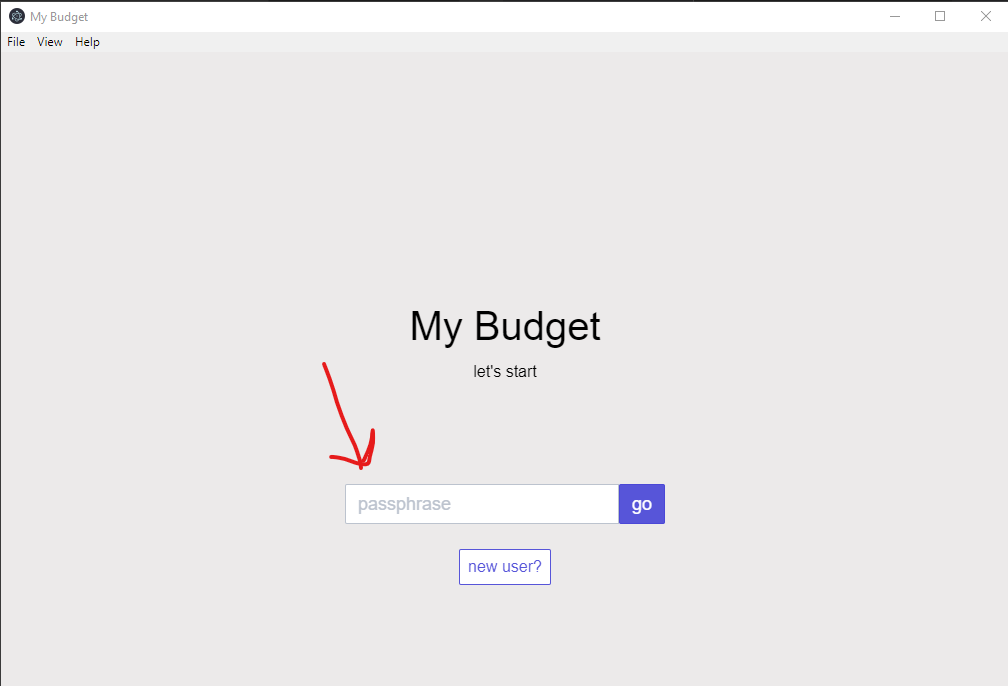
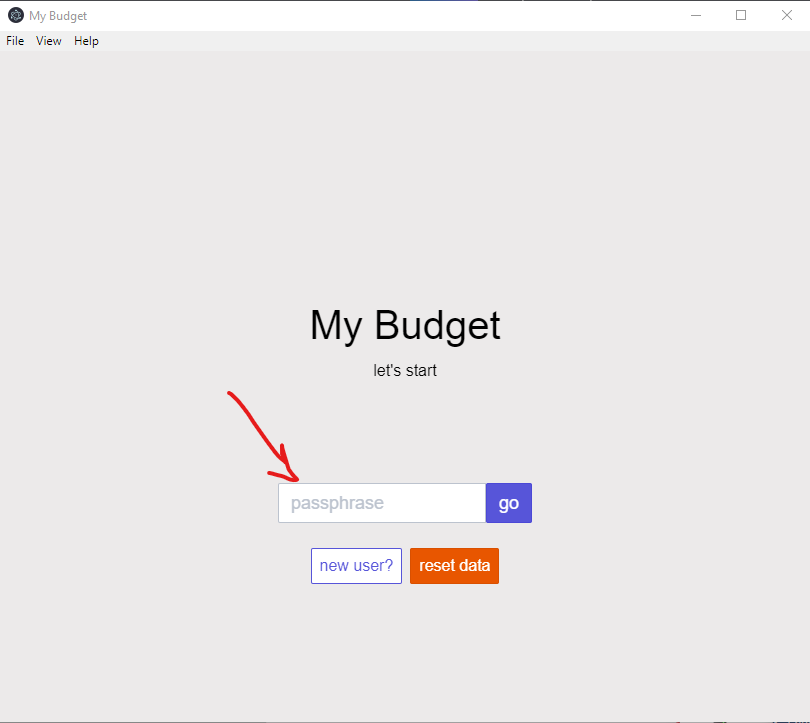
moving closer towards entry page fixes; import/export; additional wiki images

diff --git a/app/components/Entry/Entry.js b/app/components/Entry/Entry.js
@@ -10,6 +10,7 @@ import * as TransactionCollectionActions from "../../actions/transactionCollecti
 import * as PassphraseActions from "../../actions/passphrase";
 import * as ModifyActions from "../../actions/modify";
 import * as IncomeActions from "../../actions/income";
+import * as SaveActions from "../../actions/save";
 import * as BankSyncActions from "../../actions/bankSync";
 const fs = require("fs");
 import filehelper from "../../utils/filehelper";
@@ -28,6 +29,7 @@ class Entry extends Component<Props>{
 
         this.changePassphrase = this.changePassphrase.bind(this);
         this.go = this.go.bind(this);
+        this.resetData = this.resetData.bind(this);
         this.fixBug = this.fixBug.bind(this);
     }
 
@@ -35,6 +37,26 @@ class Entry extends Component<Props>{
         this.setState({
             passphrase: event.target.value
         });        
+    }
+
+    resetData(event){
+        dialog.showMessageBox({
+            title: "reset data",
+            type: "warning",
+            buttons: ["Yes", "No"],
+            message: "are you sure you want to reset all data?"
+        }, (i) => {
+
+            // Yes
+            if (i === 0){
+                this.props.deleteAll(true);
+                this.setState({
+                    passphrase: ""
+                });
+
+                alert("reset all data");                
+            }
+        });
     }
 
     go(event){
@@ -47,7 +69,7 @@ class Entry extends Component<Props>{
         var localpath = filehelper.localpath();
         try
         {
-            this.props.setPassphrase(this.state.passphrase);
+            var hash = this.props.setPassphrase(this.state.passphrase);
 
             // Create file if not exist
             if (!filehelper.exists()){
@@ -62,8 +84,8 @@ class Entry extends Component<Props>{
             fileContents = filehelper.get();
 
             if (fileContents !== ""){
-                if (crypto.cryptoAvailable() && this.props.passphrase !== ""){
-                    var decrypted = crypto.decrypt(fileContents, this.props.passphrase);
+                if (crypto.cryptoAvailable() && hash !== ""){
+                    var decrypted = crypto.decrypt(fileContents, hash);
     
                     success = true;
                     fileContents = JSON.parse(decrypted);
@@ -142,7 +164,7 @@ class Entry extends Component<Props>{
                 title: "error loading data",
                 type: "warning",
                 buttons: ["Ok"],
-                message: `wrong passphrase, we could not load your data. please delete this your data file found here '${localpath}' and restart this app.`
+                message: `wrong passphrase, if you cannot remember your passphrase, reset your data by clicking the button below. you may set a new passphrase after resetting your data.`
             }, (i) => {
                     
             });             
@@ -182,7 +204,7 @@ class Entry extends Component<Props>{
                         </div>
                         <div className={`columns ${styles.smaller}`}>
                             <div className="column col-12">
-                                <div className="popover popover-bottom">
+                                <div className="popover popover-top">
                                     <button className="btn">new user?</button>
                                     <div className="popover-container">
                                         <div className="card">
@@ -194,7 +216,8 @@ class Entry extends Component<Props>{
                                             </div>
                                         </div>
                                     </div>
-                                </div>                                
+                                </div> 
+                                <button onClick={this.resetData} className={`btn btn-error ${styles["ml"]}`}>reset data</button>                               
                             </div>
                         </div>
                         <form style={{display: "none"}} onSubmit={() => this.fixBug()}>
@@ -221,6 +244,7 @@ function mapDispatchToProps(dispatch) {
         ...PassphraseActions,
         ...ModifyActions,
         ...IncomeActions,
+        ...SaveActions,
         ...BankSyncActions,
         ...TransactionCollectionActions
     }, dispatch);

diff --git a/app/components/Save/Save.js b/app/components/Save/Save.js
@@ -14,6 +14,9 @@ import * as ImportTransactionsOptionsActions from "../../actions/importTransacti
 import styles from "./Save.css";
 import { bankSyncFetch } from "../../utils/banksync";
 import ImportBank from "../ImportBank/ImportBank";
+const fs = require("fs");
+import filehelper from "../../utils/filehelper";
+import * as crypto from "../../crypto/code";
 
 class Save extends Component<Props>{
     props: Props;
@@ -62,6 +65,7 @@ class Save extends Component<Props>{
 
         this.multi = this.multi.bind(this);
         this.sync = this.sync.bind(this);
+        this.export = this.export.bind(this);
         this.deleteAll = this.deleteAll.bind(this);
         this.toggleBankSyncAdd = this.toggleBankSyncAdd.bind(this);
         this.moveToStep = this.moveToStep.bind(this);
@@ -263,7 +267,36 @@ class Save extends Component<Props>{
     }
 
     export(event){
-        dialog.showOpenDialog({ properties: ['openFile', 'openDirectory', 'multiSelections'] });
+        var today = new Date();
+        var month = today.getMonth() + 1;
+        var day = today.getDate();
+        var year = today.getFullYear();
+
+        dialog.showSaveDialog(
+            { 
+                title: "export data",
+                defaultPath: `mybudgetdata_${year}${month}${day}.json`
+            },
+            function(filename, bookmark){
+                if (typeof filename !== "undefined"){
+
+                    fileContents = filehelper.get();
+
+                    if (fileContents !== ""){
+                        if (crypto.cryptoAvailable() && this.props.passphrase.data !== ""){
+                            var decrypted = crypto.decrypt(fileContents, this.props.passphrase.data);
+            
+                            success = true;
+                            fileContents = JSON.parse(decrypted);
+                        } else {
+                            success = true;
+                            fileContents = JSON.parse(fileContents);
+                        }
+                    }    
+                    console.warn(filename);
+                }
+            }
+        );
     }
 
     changeUsername(event){
@@ -541,7 +574,8 @@ class Save extends Component<Props>{
                 <div className="columns">
                     <div className={`column col-12 ${styles['btn-fix']}`}>
                         <button className={`btn btn-primary ${styles['some-mr']}`} type="button" data-tooltip="saves pending changes" disabled={!this.props.modified} onClick={() => this.multi()}>save</button>
-                        <button className={`btn btn-primary tooltip tooltip-top ${styles['some-mr']}`} data-tooltip="syncs transactions from banks" type="button" onClick={() => this.sync()}>bank</button>
+                        <button className={`btn btn-primary ${styles['some-mr']}`} data-tooltip="syncs transactions from banks" type="button" onClick={() => this.sync()}>bank</button>
+                        <button className={`btn btn-primary ${styles['some-mr']}`} data-tooltip="syncs transactions from banks" type="button" onClick={() => this.export()}>export</button>
                         <button className={`btn btn-error`} type="button" data-tooltip="deletes all data" onClick={() => this.deleteAll()}>delete</button>
                     </div>
                 </div>
@@ -560,6 +594,7 @@ function mapStateToProps(state){
         categories: state.categories,
         items: state.items,
         pendingImport: state.pendingImport,
+        passphrase: state.passphrase,
         importTransactionsOptions: state.importTransactionsOptions
     }
 }

diff --git a/app/components/Income/Income.js b/app/components/Income/Income.js
@@ -176,14 +176,13 @@ class Income extends Component<Props>{
 
         let validIncomeRecords = this.props.incomeRecords.filter(function(fr){
             var date = new Date(fr.startYear, fr.startMonth-1, fr.startDay);
-            console.log("d: " + date);
+            
             if (date <= today){
                 return true;
             }
             return false;
         });
 
-        console.error("valid income: " + validIncomeRecords);
 
         var cash = 0;        
         // sum income records to the current month
@@ -193,34 +192,32 @@ class Income extends Component<Props>{
             switch(validIncomeRecords[i].frequency){
                 case "0":
 
-                    cash += validIncomeRecords[i].income;                  
+                    cash += parseFloat(validIncomeRecords[i].income);
                     break;
                 case "1":
-                    // every week
-
-                    var stillOk = true;
-                    while(stillOk){
+                    // every week                    
+                    while(true){
 
                         if (startDate <= today){
-                            cash += validIncomeRecords[i].income;
+                            cash += parseFloat(validIncomeRecords[i].income);
 
-                            startDate = startDate.setDate(startDate.getDate() + 7);
+                            startDate.setDate(startDate.getDate() + 7);
                         } else {
                             break;
                         }
                     }
                     break;
                 case "2":
-                    // every 2 weeks
-
-                    var stillOk = true;
-                    while (stillOk){
+                    // every 2 weeks                    
+                    while (true){
 
                         if (startDate <= today){
-                            cash += validIncomeRecords[i].income;
+                            cash += parseFloat(validIncomeRecords[i].income);
 
-                            startDate = startDate.setDate(startDate.getDate() + 14);
-                        }
+                            startDate.setDate(startDate.getDate() + 14);
+                        } else {
+                            break;
+                        }                        
                     }
                     break;
                 case "3":
@@ -230,9 +227,7 @@ class Income extends Component<Props>{
                 default:
                     break;
             }
-        }
-
-        console.warn("cash: " + cash);
+        }        
 
         // Get transactions for the current month
         let validTransactions = this.props.transactions.filter(function(t){
@@ -249,8 +244,7 @@ class Income extends Component<Props>{
         let outbound = validTransactions.reduce(function(accumulator, currentValue){
             return accumulator + parseFloat(currentValue.amount);
         }, 0);
-
-        console.warn("outbound: " + outbound);
+    
 
         let result = cash - outbound;
         
@@ -375,6 +369,7 @@ class Income extends Component<Props>{
                         </div>
                         <div className="modal-body">
                             <div className="content">
+                            <div className={`${styles.mb}`}>enter in your sources of income</div>
                                 <div className="columns">
                                     <div className="column col-12">
                                         <div className="columns">

diff --git a/app/actions/save.js b/app/actions/save.js
@@ -35,16 +35,22 @@ export function save(){
     }
 }
 
-export function deleteAll(){
+export function deleteAll(suppress = false){
     return (dispatch: Dispatch, store: Store) => {
 
         filehelper.set("", (error, data) => {
             if (error){
-                alert("Could not delete data: " + error.message);
+                if (!suppress){
+                    alert("Could not delete data: " + error.message);
+                }
+                
                 return;
             } else {
                 console.log("deleted all data");
-                alert("deleted all data, please close and re-open this app.");
+
+                if (!suppress){
+                    alert("deleted all data, please close and re-open this app.");
+                }                
             }
         });
     }

diff --git a/app/app.global.css b/app/app.global.css
@@ -29,6 +29,13 @@ h2 {
     margin-bottom: 10px;
 }
 
+@media (max-width:768px){
+    .h5, h5 {
+        font-size:0.7rem;
+    }
+}
+
+
 /* * {
   overflow-wrap:break-word;
 } */

diff --git a/app/actions/passphrase.js b/app/actions/passphrase.js
@@ -22,5 +22,6 @@ export function setPassphrase(passphrase: string){
         }        
 
         dispatch(set_passphrase(hash));
+        return hash;
     }
 }

diff --git a/app/components/Income/Income.css b/app/components/Income/Income.css
@@ -30,6 +30,10 @@
     margin-right: 0px !important;
 }
 
+.mb {
+    margin-bottom:15px;
+}
+
 .label-fix {
     padding-top:8px !important;
 }

diff --git a/app/components/Entry/Entry.css b/app/components/Entry/Entry.css
@@ -9,3 +9,7 @@
 .smaller {
     margin-top:25px;
 }
+
+.ml {
+    margin-left:8px;
+}
